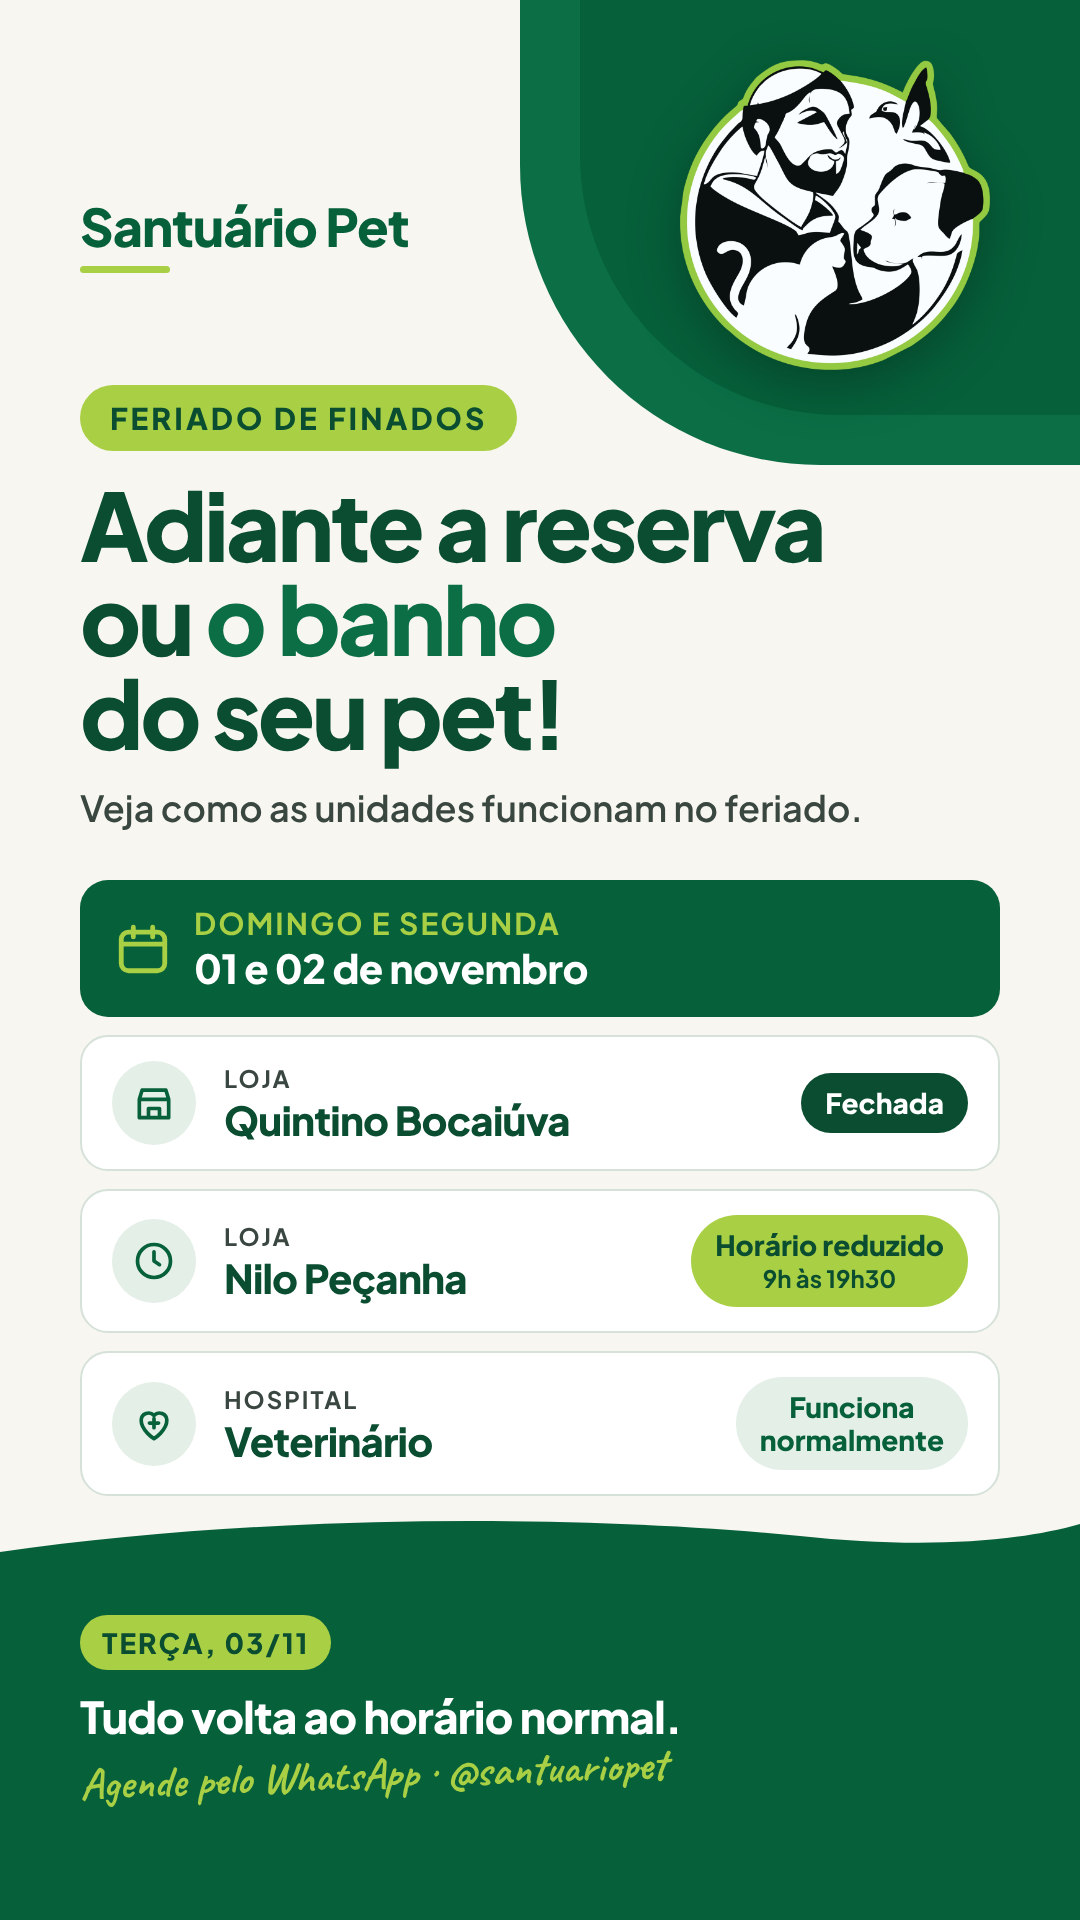
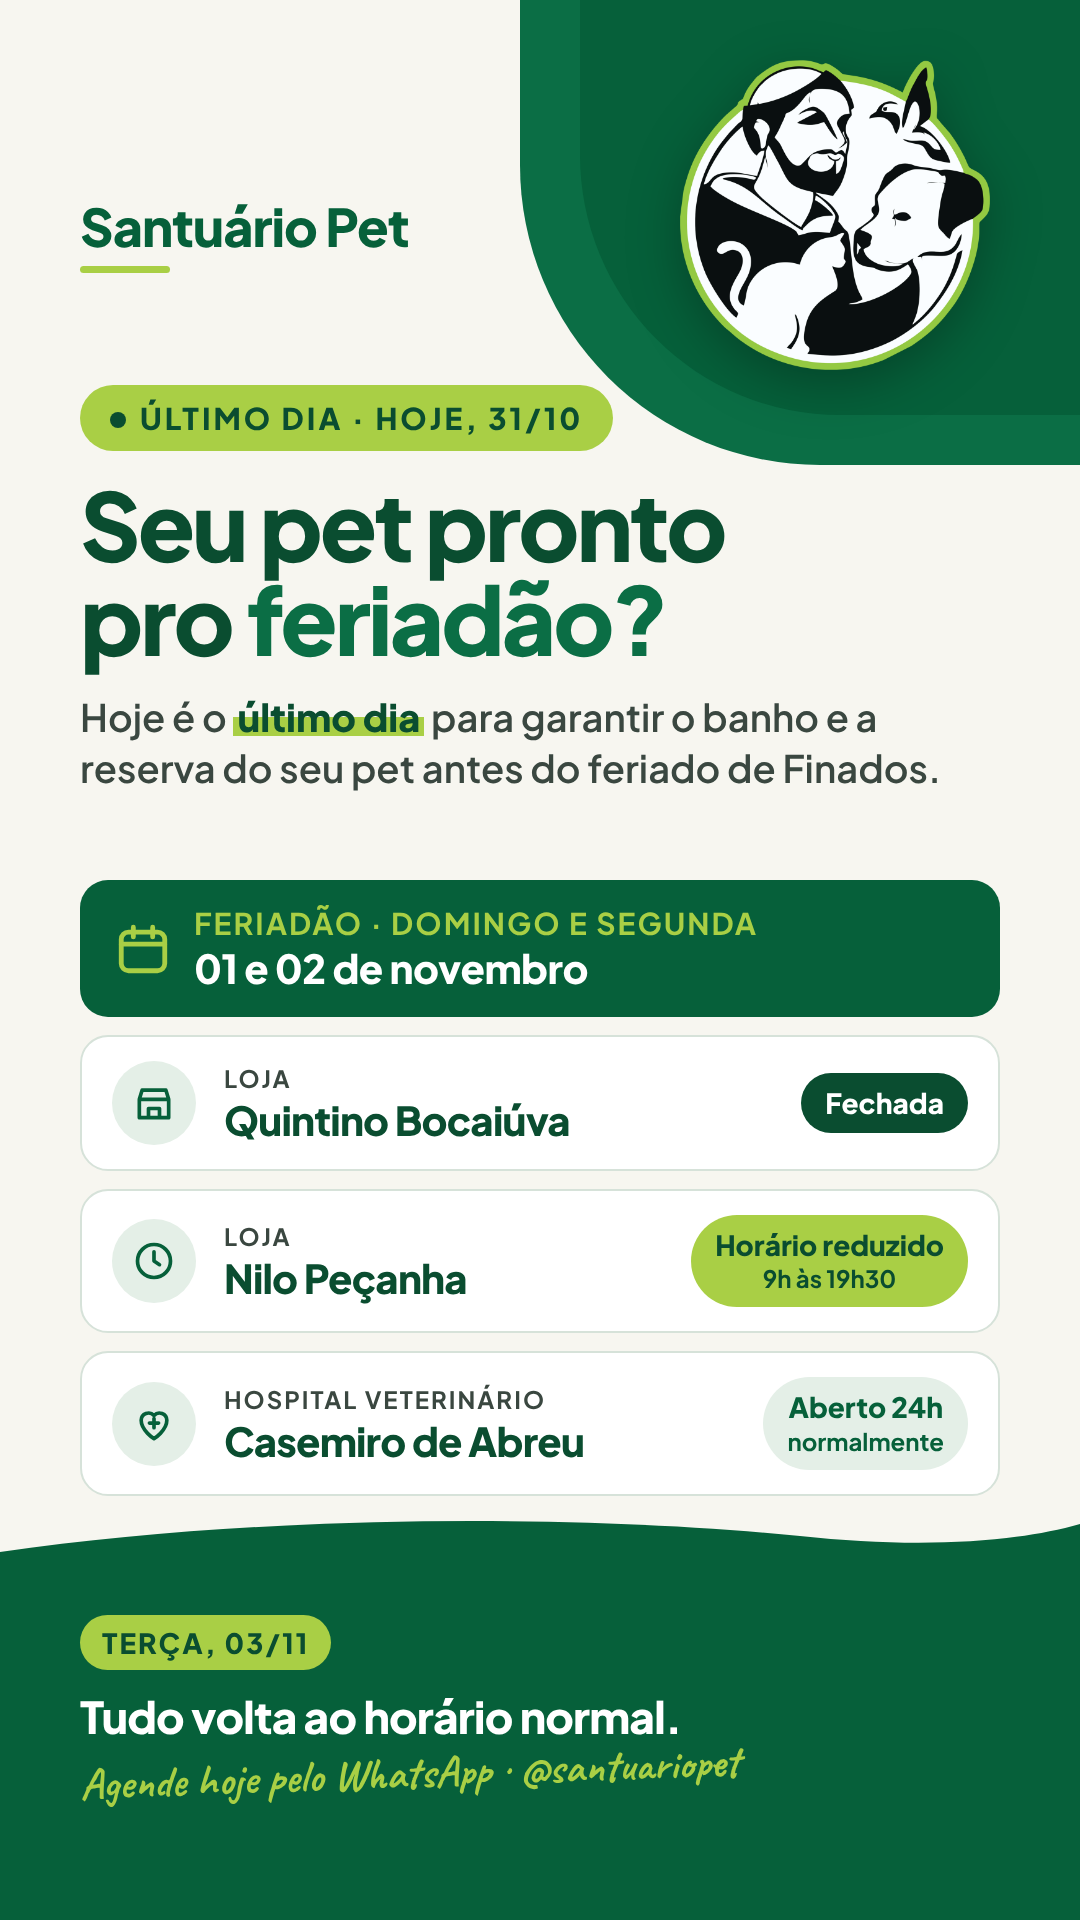
Story feriado Santuário: chamada de último dia e hospital Casemiro de Abreu 24h
Claude-Session: https://claude.ai/code/session_01Gs9A9NT6ctya6VJR5jy5cL

diff --git a/santuario-pet/stories/feriado-02-11.html b/santuario-pet/stories/feriado-02-11.html
@@ -63,9 +63,9 @@
 
   <!-- chamada -->
   <div class="abs" style="left:80px;right:80px;top:385px">
-    <span class="pill">Feriado de Finados</span>
-    <h1 style="margin-top:26px">Adiante a reserva<br>ou <span>o banho</span><br>do seu pet!</h1>
-    <p class="sub" style="margin-top:24px">Veja como as unidades funcionam no feriado.</p>
+    <span class="pill"><span style="display:inline-block;width:16px;height:16px;border-radius:50%;background:var(--verde-esc);margin-right:14px;vertical-align:2px"></span>Último dia · Hoje, 31/10</span>
+    <h1 style="margin-top:26px">Seu pet pronto<br>pro <span>feriadão?</span></h1>
+    <p class="sub" style="margin-top:26px;font-size:38px;line-height:1.35">Hoje é o <b style="color:var(--verde-esc);background:linear-gradient(transparent 52%, var(--limao) 52%, var(--limao) 92%, transparent 92%);padding:0 4px">último dia</b> para garantir o banho e a reserva do seu pet antes do feriado de Finados.</p>
   </div>
 
   <!-- datas -->
@@ -73,7 +73,7 @@
     <div class="datas">
       <svg width="58" height="58" viewBox="0 0 24 24" aria-hidden="true" style="flex:none"><rect x="3" y="5" width="18" height="16" rx="3" fill="none" stroke="#A9CF45" stroke-width="2"/><path d="M8 3v4M16 3v4M3 10h18" stroke="#A9CF45" stroke-width="2" stroke-linecap="round"/></svg>
       <div>
-        <div class="num">Domingo e segunda</div>
+        <div class="num">Feriadão · Domingo e segunda</div>
         <div class="txt">01 e 02 de novembro</div>
       </div>
     </div>
@@ -100,10 +100,10 @@
     <div class="card">
       <div class="ico"><svg width="44" height="44" viewBox="0 0 24 24" aria-hidden="true"><path d="M12 20s-7-4.4-7-10a4 4 0 0 1 7-2.6A4 4 0 0 1 19 10c0 5.6-7 10-7 10z M12 9v5M9.5 11.5h5" fill="none" stroke="#06603A" stroke-width="2" stroke-linejoin="round" stroke-linecap="round"/></svg></div>
       <div>
-        <div class="nome">Hospital</div>
-        <div class="unid">Veterinário</div>
+        <div class="nome">Hospital Veterinário</div>
+        <div class="unid">Casemiro de Abreu</div>
       </div>
-      <div class="status st-normal">Funciona<br>normalmente</div>
+      <div class="status st-normal">Aberto 24h<br><span style="font-size:24px;font-weight:700">normalmente</span></div>
     </div>
   </div>
 
@@ -116,7 +116,7 @@
         <span style="background:var(--limao);color:var(--verde-esc);font-weight:800;font-size:28px;letter-spacing:2px;text-transform:uppercase;padding:10px 22px;border-radius:999px">Terça, 03/11</span>
       </div>
       <div style="font-size:44px;font-weight:800;letter-spacing:-.8px;line-height:1.2;margin-top:20px">Tudo volta ao horário normal.</div>
-      <div class="manuscrito" style="font-size:44px;color:var(--limao);margin-top:14px;transform:rotate(-2deg);transform-origin:left center">Agende pelo WhatsApp · @santuariopet</div>
+      <div class="manuscrito" style="font-size:44px;color:var(--limao);margin-top:14px;transform:rotate(-2deg);transform-origin:left center">Agende hoje pelo WhatsApp · @santuariopet</div>
     </div>
   </div>
 
